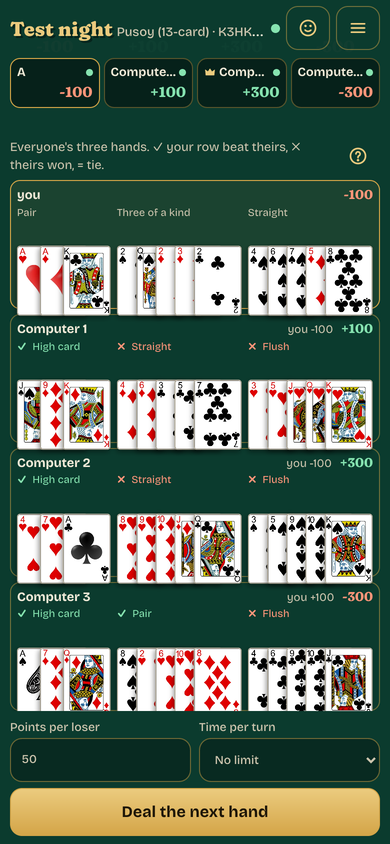
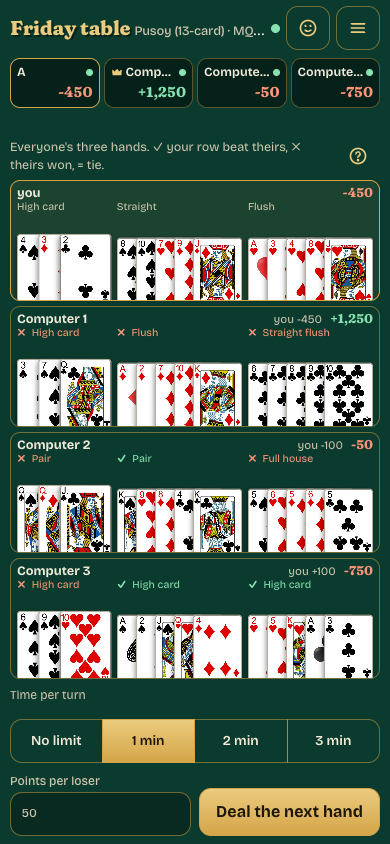
30/45/60 s turns for move games; fix Pusoy overlaps
- Pusoy Dos, Tong-its and Poker offer No limit, 30, 45 or 60 seconds;
  Pusoy keeps 1, 2 or 3 minutes (the whole hand is set at once). Each
  game remembers its own choice.
- Pusoy: the help button moved into the button row so it no longer
  covers the row labels on small phones; after a hand, every player's
  cards stay inside their own box.
- Pusoy Dos: the played cards no longer run into the "passed" line.
- Display-only card fans no longer reserve room for a lifted card.
- e2e picks a card by keyboard (a pointer click on a fanned card could
  land on its neighbour). README screenshots refreshed.

Claude-Session: https://claude.ai/code/session_0179xaw4G6DEEyzuTAjUiFDP

diff --git a/src/web/games/pusoy/Play.svelte b/src/web/games/pusoy/Play.svelte
@@ -107,6 +107,9 @@
   }
   const waiting = $derived(view.waiting.filter((id) => id !== view.you));
   const settled = $derived(view.mine !== null || view.myNatural !== null);
+  const revealing = $derived(view.done && view.reveal !== undefined && view.reveal !== null);
+  /** Only the reveal and the bystander view keep the help button in the corner; there is no row label beside it. */
+  const helpInCorner = $derived(revealing || (!settled && !(view.you !== null && layout.length === 13)));
 
   // --- the reveal: you first, then everyone else in seat order
   const order = $derived(view.you ? [view.you, ...view.players.filter((id) => id !== view.you)] : view.players);
@@ -115,8 +118,12 @@
 </script>
 
 <svelte:window onkeydown={(e) => e.key === 'Escape' && (rulesOpen = false)} />
+{#snippet help(corner: boolean)}
+  <button type="button" class="ghost rules-toggle" class:corner aria-expanded={rulesOpen} aria-label={t('pusoy.play.rulesTitle')} onclick={() => (rulesOpen = !rulesOpen)}><Icon name="help" /></button>
+{/snippet}
+<!-- The help button sits in a row of its own controls while your hand is on screen, so it never covers the row labels. -->
 <div class="ps">
-  <button type="button" class="ghost rules-toggle" aria-expanded={rulesOpen} aria-label={t('pusoy.play.rulesTitle')} onclick={() => (rulesOpen = !rulesOpen)}><Icon name="help" /></button>
+  {#if helpInCorner}{@render help(true)}{/if}
   {#if rulesOpen}
     <div class="rules" role="dialog" aria-label={t('pusoy.play.rulesTitle')}>
       <strong>{t('pusoy.play.rulesTitle')}</strong>
@@ -132,7 +139,7 @@
     </div>
   {/if}
 
-  {#if view.done && view.reveal}
+  {#if revealing && view.reveal}
     <p class="dim small legend">{view.you ? t('pusoy.play.revealHelp') : t('pusoy.play.revealHelpAll')}</p>
     <div class="reveal">
       {#each order as id (id)}
@@ -172,7 +179,7 @@
       {@const mine = view.mine as Arrangement}
       <div class="hand"><HeldRows rows={[mine.front, mine.middle, mine.back]} labels={labelsOf(mine)} label={t('play.yourHand')} /></div>
     {/if}
-    <p class="dim small">{view.myNatural ? t('pusoy.play.declared', { name: t(`pusoy.n.${view.myNatural}`) }) : t('pusoy.play.setDone')}{#if waiting.length > 0} · {t('pusoy.play.waiting', { names: waiting.map(nameOf).join(', ') })}{/if}</p>
+    <div class="status">{@render help(false)}<p class="dim small">{view.myNatural ? t('pusoy.play.declared', { name: t(`pusoy.n.${view.myNatural}`) }) : t('pusoy.play.setDone')}{#if waiting.length > 0} · {t('pusoy.play.waiting', { names: waiting.map(nameOf).join(', ') })}{/if}</p></div>
   {:else if view.you !== null && layout.length === 13}
     {#each view.eligible as key (key)}
       <button type="button" class="nat-btn" onclick={() => onmove({ t: 'natural', key })}>
@@ -185,6 +192,7 @@
     </div>
     {#if touched && problem === 'order'}<p class="hint" role="alert">{t('pusoy.play.order')}</p>{/if}
     <div class="acts">
+      {@render help(false)}
       <button type="button" onclick={swapRows}>⇅ {t('pusoy.play.swapRows')}</button>
       <button type="button" class="primary" disabled={problem !== null} onclick={confirm}>{t('pusoy.play.confirm')}</button>
     </div>
@@ -194,30 +202,35 @@
 
 <style>
   .ps { position: relative; display: flex; flex-direction: column; gap: 6px; min-height: 0; flex: 1 1 auto; max-height: 100%; }
-  .rules-toggle { position: absolute; right: 0; top: -4px; width: 44px; min-height: 0; height: 44px; padding: 0; border-radius: 50%; z-index: 6; display: grid; place-items: center; color: var(--accent); border: 0; }
+  .rules-toggle { flex: none; width: 44px; min-height: 44px; height: 44px; padding: 0; border-radius: 50%; display: grid; place-items: center; color: var(--accent); border: 0; }
+  .rules-toggle.corner { position: absolute; right: 0; top: -4px; z-index: 6; }
+  .status { flex: none; display: flex; align-items: center; gap: 6px; }
+  .status .small { flex: 1; }
   /* an overlay on the whole screen (the screen is the containing block), so the play area never clips it */
   .rules { position: fixed; z-index: 25; right: 10px; top: 52px; max-height: calc(100% - 64px); overflow-y: auto; width: min(320px, calc(100% - 20px)); padding: 10px 14px; border-radius: 12px; border: 1px solid var(--brass); background: var(--felt-900, #0b2f25); color: var(--cream, #f3e9d2); box-shadow: 0 8px 24px rgba(0,0,0,.5); font-size: .85rem; }
   .rules ul { margin: 6px 0 8px; padding-left: 1.1em; }
   .rules li { margin: .3em 0; }
   .hand { flex: 1 1 0; min-height: 200px; padding-right: 2px; }
   .nat-btn { width: 100%; }
-  .acts { flex: none; display: grid; grid-template-columns: 1fr 1fr; gap: 8px; }
+  .acts { flex: none; display: grid; grid-template-columns: 44px 1fr 1fr; gap: 8px; align-items: center; }
   .acts button { min-height: 44px; padding: 6px 8px; line-height: 1.15; }
   .hint { margin: 0; color: #ffb79e; font-size: .8rem; text-align: center; }
   .small { margin: 0; font-size: .78rem; text-align: center; }
   .legend { padding-right: 44px; text-align: left; }
   .reveal { flex: 1 1 0; min-height: 0; display: flex; flex-direction: column; gap: 5px; overflow: hidden; }
-  .player { flex: 1 1 0; min-height: 0; display: flex; flex-direction: column; padding: 4px 6px; border: 1px solid var(--line); border-radius: 10px; }
+  .player { flex: 1 1 0; min-height: 0; overflow: hidden; display: flex; flex-direction: column; padding: 4px 6px; border: 1px solid var(--line); border-radius: 10px; }
   .player.me { border-color: var(--brass); background: color-mix(in srgb, var(--brass) 8%, transparent); }
-  .phead { display: flex; align-items: baseline; gap: 8px; font-size: .8rem; }
+  .phead { display: flex; align-items: baseline; gap: 8px; font-size: .8rem; line-height: 1.15; }
   .pn { flex: 1; min-width: 0; overflow: hidden; text-overflow: ellipsis; white-space: nowrap; }
   .vs { font-size: .72rem; }
-  .rows3 { flex: 1; min-height: 0; display: grid; grid-template-columns: 3fr 4fr 4fr; gap: 6px; }
+  .rows3 { flex: 1 1 0; min-height: 0; display: grid; grid-template-columns: 3fr 4fr 4fr; grid-template-rows: minmax(0, 1fr); gap: 6px; }
   .cell { display: flex; flex-direction: column; min-height: 0; min-width: 0; }
-  .mk { font-size: .66rem; color: var(--text-dim); white-space: nowrap; overflow: hidden; text-overflow: ellipsis; }
+  .mk { font-size: .66rem; line-height: 1.2; color: var(--text-dim); white-space: nowrap; overflow: hidden; text-overflow: ellipsis; }
   .mk.w { color: var(--pos); }
   .mk.l { color: var(--neg); }
   .mk > span[aria-hidden] { font-weight: 800; margin-right: 3px; }
-  .mini { flex: 1; min-height: 34px; }
+  /* the fan fills whatever height is left in the box, so the cards always stay inside it */
+  .mini { flex: 1 1 0; min-height: 0; position: relative; }
+  .mini > :global(.fan) { position: absolute; inset: 0; min-height: 0; }
   .nat { color: var(--brass-soft, var(--brass)); font-size: .85rem; }
 </style>

diff --git a/src/web/components/PlayTable.svelte b/src/web/components/PlayTable.svelte
@@ -18,17 +18,22 @@
   // svelte-ignore state_referenced_locally
   const saved = Number.parseInt(getItem(`tt.stake.${room.gameId}`) ?? '', 10);
   let stakeText = $state(String(Number.isSafeInteger(saved) && saved > 0 ? saved : stakeCfg?.start ?? 1));
-  /** Time per turn, the same choices in every game (in Pusoy it is the time to set the whole hand). */
-  const TURN_CHOICES = [0, 60, 120, 180] as const;
-  const savedTurn = Number.parseInt(getItem('tt.turnSeconds') ?? '0', 10);
-  let turnSeconds = $state<number>((TURN_CHOICES as readonly number[]).includes(savedTurn) ? savedTurn : 0);
+  /** Time per turn: 30/45/60 seconds for one move, or the game's own choices (Pusoy sets a whole hand: 1-3 minutes). */
+  // svelte-ignore state_referenced_locally
+  const TURN_CHOICES: readonly number[] = [0, ...(gameUis[room.gameId]?.turnChoices ?? [30, 45, 60])];
+  // svelte-ignore state_referenced_locally
+  const inMinutes = gameUis[room.gameId]?.turnChoices !== undefined;
+  // svelte-ignore state_referenced_locally
+  const turnKey = `tt.turnSeconds.${room.gameId}`;
+  const savedTurn = Number.parseInt(getItem(turnKey) ?? '0', 10);
+  let turnSeconds = $state<number>(TURN_CHOICES.includes(savedTurn) ? savedTurn : 0);
   // Stakeless games (poker) still send a stake of 1; the server ignores it.
   const stake = $derived(!stakeCfg ? 1 : /^\d{1,8}$/.test(stakeText) ? Number.parseInt(stakeText, 10) : 0);
 
   function deal() {
     if (stake < 1) return;
     if (stakeCfg) setItem(`tt.stake.${room.gameId}`, String(stake));
-    setItem('tt.turnSeconds', String(turnSeconds));
+    setItem(turnKey, String(turnSeconds));
     send({ t: 'deal', stake, turnSeconds });
   }
 
@@ -94,7 +99,7 @@
         {#each TURN_CHOICES as s (s)}
           <label class="turn" class:on={turnSeconds === s}>
             <input type="radio" name="turn-time" value={s} bind:group={turnSeconds} />
-            <span>{s === 0 ? t('play.turnTime.0') : t('play.turnTime.m', { n: s / 60 })}</span>
+            <span>{s === 0 ? t('play.turnTime.0') : inMinutes ? t('play.turnTime.m', { n: s / 60 }) : t('play.turnTime.s', { n: s })}</span>
           </label>
         {/each}
       </fieldset>

diff --git a/src/web/games/index.ts b/src/web/games/index.ts
@@ -70,6 +70,8 @@ export interface GameUiOf<View, Move, Setup> {
   seat?(view: View, playerId: string, t: T): SeatInfo | null;
   /** The stake the host sets when dealing: its label key and a starting value. Absent for stakeless games (poker). */
   stake?: { label: string; start: number };
+  /** Time-per-turn choices in seconds, after "No limit". Default 30, 45 and 60 seconds (one move at a time). */
+  turnChoices?: readonly number[];
   /** One-line summary of a saved round for the history list. */
   describe(round: PublicRound, setup: unknown, nameOf: (id: string) => string, t: T): string;
   /** Who won the round, for celebrations. Null if there is no single winner. */
@@ -202,6 +204,8 @@ export const gameUis: Readonly<Record<string, GameUi>> = {
     Setup: PusoySetupUi,
     Play: PusoyPlay,
     stake: { label: 'play.stake', start: 50 },
+    // the whole 13-card hand is set in one go, so the clock is in minutes
+    turnChoices: [60, 120, 180],
     seat(viewRaw, id, t) {
       const view = viewRaw as PsView | null;
       if (!view || view.done) return null;

diff --git a/src/web/games/pusoy-dos/Play.svelte b/src/web/games/pusoy-dos/Play.svelte
@@ -84,7 +84,9 @@
   .status strong { font-family: var(--font-display); font-weight: 800; font-size: 1.05em; color: var(--accent); }
   .status.mine { border-color: var(--brass); background: color-mix(in srgb, var(--brass) 14%, transparent); }
   .mat { display: flex; flex-direction: column; align-items: center; gap: 4px; padding: 6px; border-radius: 12px; border: 1px dashed var(--line); min-height: 90px; justify-content: center; flex: 0 1 150px; overflow: hidden; }
-  .pile { width: 70%; flex: 1 1 auto; min-height: 60px; }
+  /* the fan fills the pile's height exactly, so the cards never run into the "passed" line below */
+  .pile { position: relative; width: 70%; flex: 1 1 0; min-height: 48px; }
+  .pile > :global(.fan) { position: absolute; inset: 0; min-height: 0; }
   .hand { flex: 1 1 0; min-height: 120px; max-height: 340px; }
   .by { font-size: .8rem; color: var(--text-dim); }
   .small { font-size: .75rem; }

diff --git a/src/web/components/CardFan.svelte b/src/web/components/CardFan.svelte
@@ -39,7 +39,7 @@
     let deg = Math.max(baseDeg, stripDeg(maxW));
     let half = ((deg / 2) * Math.PI) / 180;
     // Height used by one card width: the card, the arc's drop at the edges, the turned corner, and the lift.
-    const perW = (h: number): number => RATIO + RADIUS * (1 - Math.cos(h)) + 0.5 * Math.sin(h) + (RATIO / 2) * (1 - Math.cos(h)) + LIFT;
+    const perW = (h: number): number => RATIO + RADIUS * (1 - Math.cos(h)) + 0.5 * Math.sin(h) + (RATIO / 2) * (1 - Math.cos(h)) + (onpick ? LIFT : 0); // only a pickable hand lifts a card
     let cw = Math.min(maxW, (H - 4) / perW(half));
     // Shrink until the hand fits both ways: the arc's chord plus the outer cards' turned edges, and the height.
     for (let k = 0; k < 60; k++) {

diff --git a/src/web/lib/i18n.svelte.ts b/src/web/lib/i18n.svelte.ts
@@ -247,6 +247,7 @@ const en: Record<string, string> = {
   'play.turnTime': 'Time per turn',
   'play.turnTime.0': 'No limit',
   'play.turnTime.m': '{n} min',
+  'play.turnTime.s': '{n} sec',
   'play.yourTurn': 'Your turn',
   'play.turnOf': '{name} is thinking…',
   'play.lead': 'You lead: play any cards.',
@@ -508,6 +509,7 @@ const tl: Record<string, string> = {
   'play.turnTime': 'Oras bawat turno',
   'play.turnTime.0': 'Walang limit',
   'play.turnTime.m': '{n} min',
+  'play.turnTime.s': '{n} seg',
   'play.yourTurn': 'Turno mo',
   'play.turnOf': 'Nag-iisip si {name}…',
   'play.lead': 'Ikaw ang mauuna: maglaro ng kahit anong baraha.',

diff --git a/CHANGELOG.md b/CHANGELOG.md
@@ -10,9 +10,10 @@ All notable changes to TableTally. Dates are in Asia/Tokyo. Codes in brackets ar
 - History numbers hands by position, so a voided hand never leaves a gap [C05].
 
 ### Turn timer and Pusoy rows
-- Time per turn is now a toggle with the same choices in every game: No limit, 1, 2 or 3 minutes. The time is exactly what you pick; Pusoy used to multiply it by six (30 seconds became 3:00).
+- Time per turn is now a toggle instead of a dropdown: No limit, 30, 45 or 60 seconds in Pusoy Dos, Tong-its and Poker, and No limit, 1, 2 or 3 minutes in Pusoy (the time to set the whole hand). The time is exactly what you pick; Pusoy used to multiply it by six (30 seconds became 3:00). Each game remembers its own choice.
 - The countdown is a large ring in the middle of the table that drains as time runs out, turning amber at 30 seconds and red, pulsing, at 10.
 - Pusoy has a "Swap middle and bottom" button that trades the two five-card rows in one tap.
+- Pusoy: the help button moved into the button row so it no longer covers the row labels on small phones, and after a hand everyone's cards stay inside their own box (they spilled over on phones).
 
 ### Cards and screens
 - Real card faces from Byron Knoll's public-domain deck: number cards show their pips and J, Q, K show court art. The whole deck is one 584 KB image. Cards under 40 px wide switch to a big rank and suit so they stay readable.

diff --git a/README.md b/README.md
@@ -13,7 +13,7 @@ Card games with friends, on your phones. The host starts a table and picks the g
 1. Open **[TableTally](https://tabletally.tabletally.workers.dev)** on your phone or computer and choose **Start a table**.
 2. Pick Pusoy Dos, Pusoy, Tong-its or Poker, set the player count and table options, enter your display name, then choose **Create table**.
 3. Invite friends by sharing the table link or letting them scan its QR code. They can also open the app, choose **Join a table** and enter the six-letter table code. Each friend enters a display name and taps **Sit down**.
-4. Once every seat is filled, the host picks a time per turn (No limit, 1, 2 or 3 minutes) and taps **Deal**. Play your cards in the app; it checks the moves, keeps everyone's cards private and records the score automatically.
+4. Once every seat is filled, the host picks a time per turn (30, 45 or 60 seconds; 1, 2 or 3 minutes in Pusoy; or no limit) and taps **Deal**. Play your cards in the app; it checks the moves, keeps everyone's cards private and records the score automatically.
 5. After the hand, review the results. The host taps **Deal the next hand** to keep playing.
 
 **Playing solo?** Add computer players when creating the table. Choose Easy, Normal or Hard to fill the other seats, then deal.
